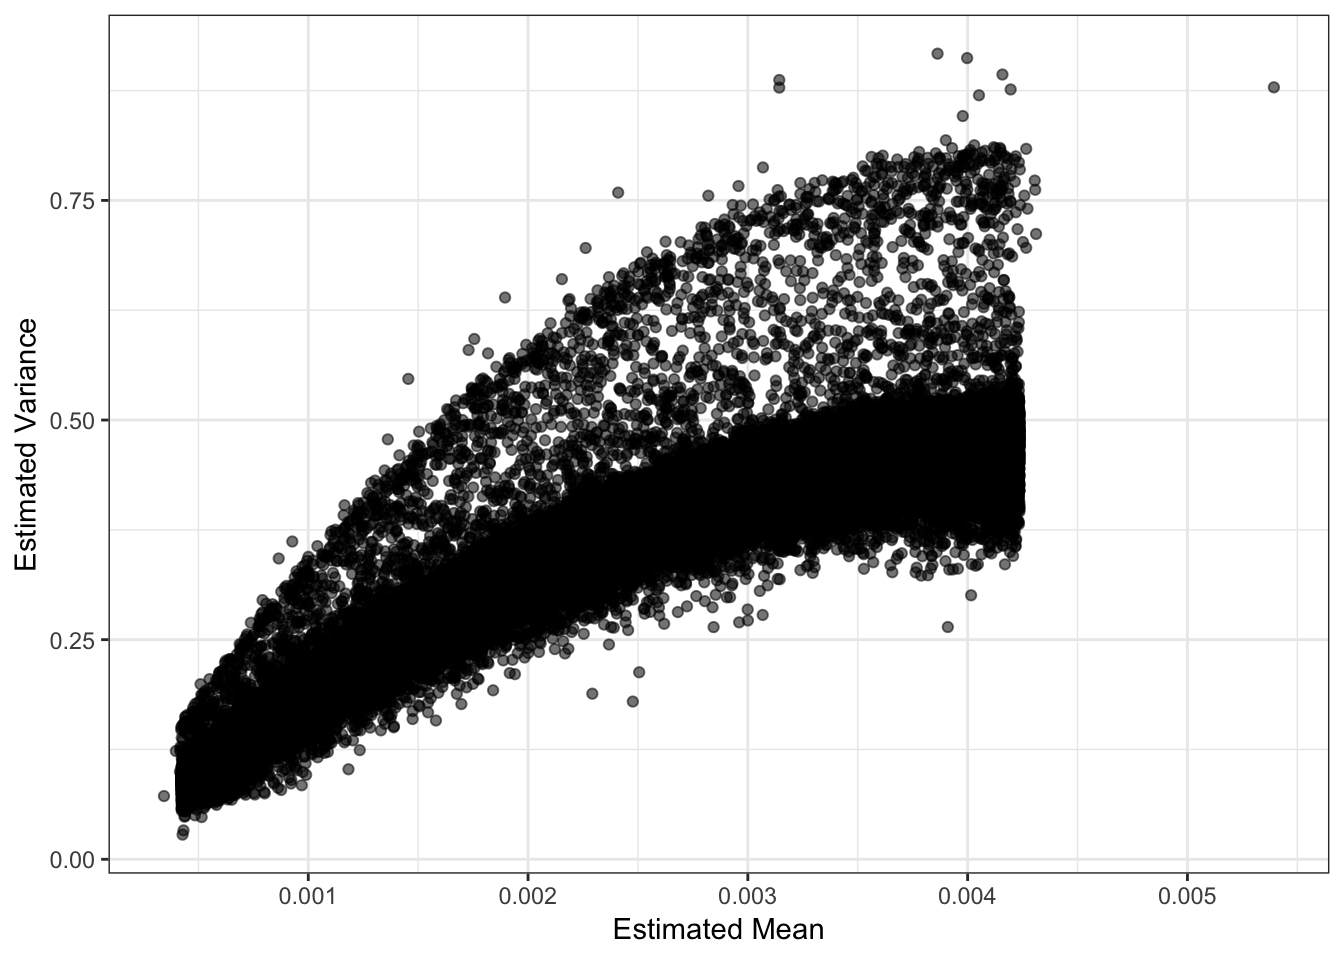
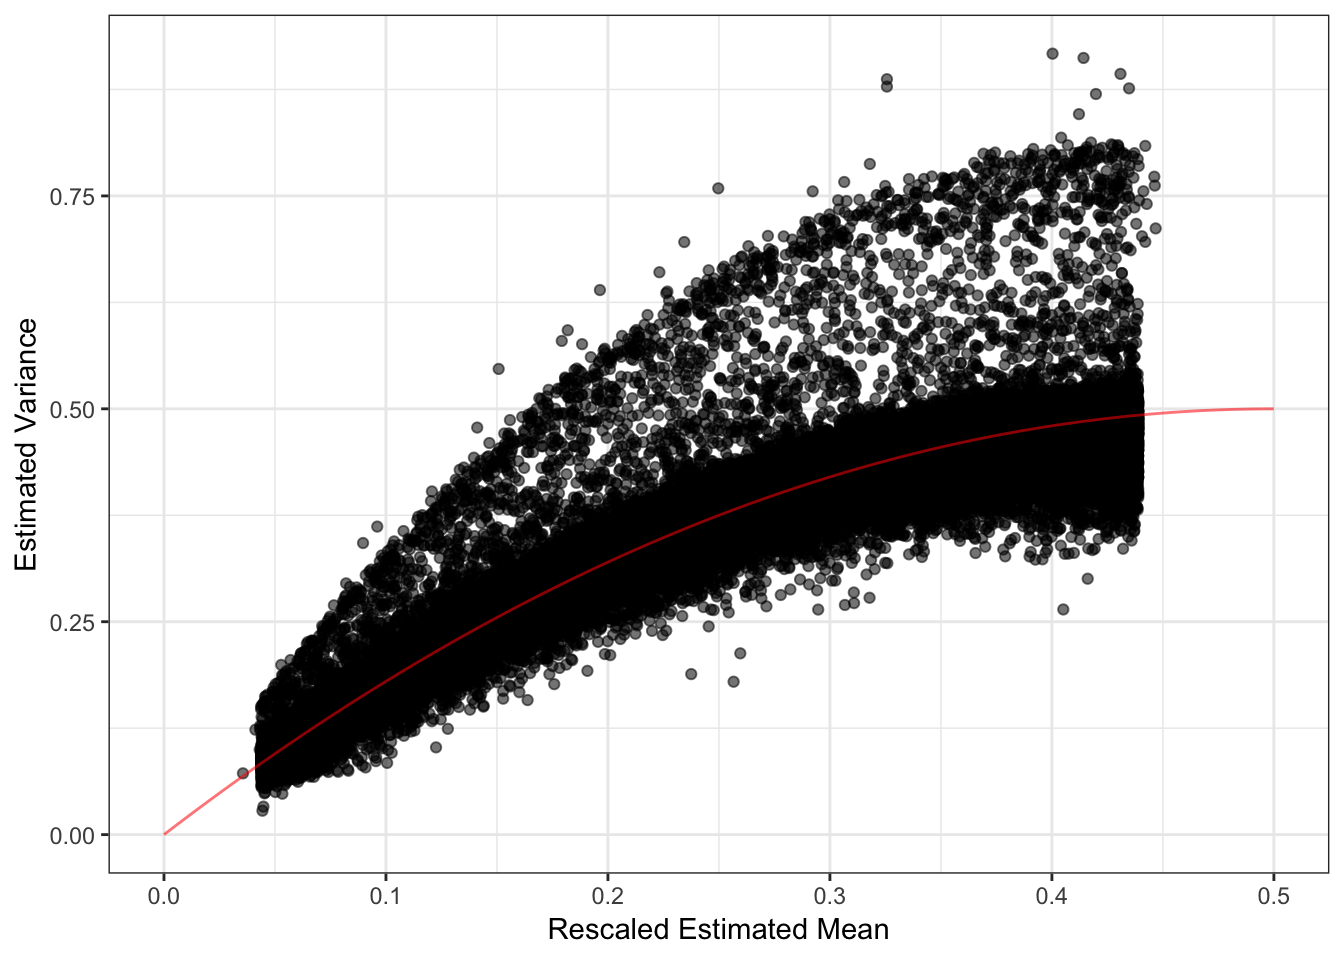
expanded upon mean variance

diff --git a/docs/hoa_global.html b/docs/hoa_global.html
@@ -465,7 +465,7 @@ div.section {
 </li>
 <li>
 <details>
-<p><summary> <strong style="color:blue;">✔</strong> <strong>Repository version:</strong> <a href="https://github.com/jhmarcus/drift-workflow/tree/2d28bb945ece17c4043981e2caae3de7114b3c3f" target="_blank">2d28bb9</a> </summary></p>
+<p><summary> <strong style="color:blue;">✔</strong> <strong>Repository version:</strong> <a href="https://github.com/jhmarcus/drift-workflow/tree/7644d40f17cc1940328c2c6ba40ff0b1817e667a" target="_blank">7644d40</a> </summary></p>
 Great! You are using Git for version control. Tracking code development and connecting the code version to the results is critical for reproducibility. The version displayed above was the version of the Git repository at the time these results were generated. <br><br> Note that you need to be careful to ensure that all relevant files for the analysis have been committed to Git prior to generating the results (you can use <code>wflow_publish</code> or <code>wflow_git_commit</code>). workflowr only checks the R Markdown file, but you know if there are other scripts or data files that it depends on. Below is the status of the Git repository when the results were generated:
 <pre><code>
 Ignored files:
@@ -480,10 +480,6 @@ Ignored files:
 
 Unstaged changes:
     Modified:   analysis/hoa_global.Rmd
-    Modified:   analysis/hoa_weurasia.Rmd
-    Modified:   analysis/index.Rmd
-    Modified:   analysis/ooa.Rmd
-    Modified:   code/viz.R
 
 </code></pre>
 Note that any generated files, e.g. HTML, png, CSS, etc., are not included in this status report because it is ok for generated content to have uncommitted changes.
@@ -514,6 +510,40 @@ Message
 </tr>
 </thead>
 <tbody>
+<tr>
+<td style="text-align:left;">
+Rmd
+</td>
+<td style="text-align:left;">
+<a href="https://github.com/jhmarcus/drift-workflow/blob/38b57c54997e44c495298de7423104f1749299a1/analysis/hoa_global.Rmd" target="_blank">38b57c5</a>
+</td>
+<td style="text-align:left;">
+jhmarcus
+</td>
+<td style="text-align:left;">
+2019-02-24
+</td>
+<td style="text-align:left;">
+simplified greedy flash global analysis
+</td>
+</tr>
+<tr>
+<td style="text-align:left;">
+html
+</td>
+<td style="text-align:left;">
+<a href="https://cdn.rawgit.com/jhmarcus/drift-workflow/38b57c54997e44c495298de7423104f1749299a1/docs/hoa_global.html" target="_blank">38b57c5</a>
+</td>
+<td style="text-align:left;">
+jhmarcus
+</td>
+<td style="text-align:left;">
+2019-02-24
+</td>
+<td style="text-align:left;">
+simplified greedy flash global analysis
+</td>
+</tr>
 <tr>
 <td style="text-align:left;">
 Rmd
@@ -738,6 +768,17 @@ Date
 <tbody>
 <tr>
 <td style="text-align:left;">
+<a href="https://github.com/jhmarcus/drift-workflow/blob/38b57c54997e44c495298de7423104f1749299a1/docs/figure/hoa_global.Rmd/flash-greedy-ld-viz-factors-1.png" target="_blank">38b57c5</a>
+</td>
+<td style="text-align:left;">
+jhmarcus
+</td>
+<td style="text-align:left;">
+2019-02-24
+</td>
+</tr>
+<tr>
+<td style="text-align:left;">
 <a href="https://github.com/jhmarcus/drift-workflow/blob/f5ef1af4d17d9469ed52811c88166186d0c3c993/docs/figure/hoa_global.Rmd/flash-greedy-ld-viz-factors-1.png" target="_blank">f5ef1af</a>
 </td>
 <td style="text-align:left;">
@@ -753,6 +794,37 @@ jhmarcus
 <p>We can see the later factors tend to get sparser but they still seem to contribute! Here is a plot of the “proportion of variance explained” of each factor:</p>
 <pre class="r"><code>qplot(2:K, flash_fit$pve[2:K]) + ylab(&quot;Proportion of Varaince Explained&quot;) + xlab(&quot;K&quot;) + theme_bw()</code></pre>
 <p><img src="figure/hoa_global.Rmd/flash-greedy-ld-viz-pve-1.png" width="672" style="display: block; margin: auto;" /></p>
+<details>
+<summary><em>Expand here to see past versions of flash-greedy-ld-viz-pve-1.png:</em></summary>
+<table style = "border-collapse:separate; border-spacing:5px;">
+<thead>
+<tr>
+<th style="text-align:left;">
+Version
+</th>
+<th style="text-align:left;">
+Author
+</th>
+<th style="text-align:left;">
+Date
+</th>
+</tr>
+</thead>
+<tbody>
+<tr>
+<td style="text-align:left;">
+<a href="https://github.com/jhmarcus/drift-workflow/blob/38b57c54997e44c495298de7423104f1749299a1/docs/figure/hoa_global.Rmd/flash-greedy-ld-viz-pve-1.png" target="_blank">38b57c5</a>
+</td>
+<td style="text-align:left;">
+jhmarcus
+</td>
+<td style="text-align:left;">
+2019-02-24
+</td>
+</tr>
+</tbody>
+</table>
+</details>
 <pre class="r"><code>print(flash_fit$pve)</code></pre>
 <pre><code> [1] 0.4750002010 0.0221931227 0.0180913971 0.0103143286 0.0025255466
  [6] 0.0015774930 0.0045260494 0.0014121917 0.0012173854 0.0007676335
@@ -762,17 +834,113 @@ jhmarcus
 <p>It looks like the PVE drops off at around 11 or so? I setup the <code>flashier</code> run so it estimates a SNP specific precision term. Here is a histogram of fitted variances:</p>
 <pre class="r"><code>qplot(1/flash_fit$fit$est.tau) + xlab(&quot;Estimated Variance&quot;) + ylab(&quot;Count&quot;) + theme_bw()</code></pre>
 <p><img src="figure/hoa_global.Rmd/flash-greedy-ld-viz-var-1.png" width="672" style="display: block; margin: auto;" /></p>
+<details>
+<summary><em>Expand here to see past versions of flash-greedy-ld-viz-var-1.png:</em></summary>
+<table style = "border-collapse:separate; border-spacing:5px;">
+<thead>
+<tr>
+<th style="text-align:left;">
+Version
+</th>
+<th style="text-align:left;">
+Author
+</th>
+<th style="text-align:left;">
+Date
+</th>
+</tr>
+</thead>
+<tbody>
+<tr>
+<td style="text-align:left;">
+<a href="https://github.com/jhmarcus/drift-workflow/blob/38b57c54997e44c495298de7423104f1749299a1/docs/figure/hoa_global.Rmd/flash-greedy-ld-viz-var-1.png" target="_blank">38b57c5</a>
+</td>
+<td style="text-align:left;">
+jhmarcus
+</td>
+<td style="text-align:left;">
+2019-02-24
+</td>
+</tr>
+</tbody>
+</table>
+</details>
 <p>Lets now look the the fitted means:</p>
 <pre class="r"><code>qplot(delta_df$`1`) + xlab(&quot;Estimated Mean&quot;) + ylab(&quot;Count&quot;) + theme_bw()</code></pre>
 <p><img src="figure/hoa_global.Rmd/flash-greedy-ld-viz-mean-1.png" width="672" style="display: block; margin: auto;" /></p>
-<p>The mean seems a bit smaller than I would have expected? These plots looks about reasonable as each of the SNP variances should roughly be interpreted as average heterozygosity <span class="math inline">\(\approx 2p(1-p)\)</span>? The mean term should roughly be interpreted as the mean allele frequency at the SNP and thus we should see a quadratic relationship with the estimated variance:</p>
-<pre class="r"><code>p_mv = qplot(delta_df$`1`, 1/flash_fit$fit$est.tau, alpha=.3) + 
-       xlab(&quot;Estimated Mean&quot;) + ylab(&quot;Estimated Variance&quot;) + 
+<details>
+<summary><em>Expand here to see past versions of flash-greedy-ld-viz-mean-1.png:</em></summary>
+<table style = "border-collapse:separate; border-spacing:5px;">
+<thead>
+<tr>
+<th style="text-align:left;">
+Version
+</th>
+<th style="text-align:left;">
+Author
+</th>
+<th style="text-align:left;">
+Date
+</th>
+</tr>
+</thead>
+<tbody>
+<tr>
+<td style="text-align:left;">
+<a href="https://github.com/jhmarcus/drift-workflow/blob/38b57c54997e44c495298de7423104f1749299a1/docs/figure/hoa_global.Rmd/flash-greedy-ld-viz-mean-1.png" target="_blank">38b57c5</a>
+</td>
+<td style="text-align:left;">
+jhmarcus
+</td>
+<td style="text-align:left;">
+2019-02-24
+</td>
+</tr>
+</tbody>
+</table>
+</details>
+<p>The mean seems smaller than I would have expected but thats probably because its normalized to have unit norm?! These plots looks about reasonable as each of the SNP variances should roughly be interpreted as average heterozygosity <span class="math inline">\(\approx 2p(1-p)\)</span>? The mean term should roughly be interpreted as the mean minor allele frequency at the SNP and thus we should see a quadratic relationship with the estimated variance:</p>
+<pre class="r"><code>d1 = flash_fit$loadings$scale.constant[1]
+p_mv = qplot(sqrt(d1) * delta_df$`1`, 1/flash_fit$fit$est.tau, alpha=.3) + 
+       xlab(&quot;Rescaled Estimated Mean&quot;) + ylab(&quot;Estimated Variance&quot;) + 
        scale_alpha(guide = &quot;none&quot;) + 
+       stat_function(fun = function(x){return(2*x*(1-x))}, color=&quot;red&quot;) + 
+       xlim(0, .5) + 
        theme_bw()
 p_mv</code></pre>
 <p><img src="figure/hoa_global.Rmd/flash-greedy-ld-viz-mv-1.png" width="672" style="display: block; margin: auto;" /></p>
-<p>Lets now take a look at the loadings. First we setup a data.frame that we can work with:</p>
+<details>
+<summary><em>Expand here to see past versions of flash-greedy-ld-viz-mv-1.png:</em></summary>
+<table style = "border-collapse:separate; border-spacing:5px;">
+<thead>
+<tr>
+<th style="text-align:left;">
+Version
+</th>
+<th style="text-align:left;">
+Author
+</th>
+<th style="text-align:left;">
+Date
+</th>
+</tr>
+</thead>
+<tbody>
+<tr>
+<td style="text-align:left;">
+<a href="https://github.com/jhmarcus/drift-workflow/blob/38b57c54997e44c495298de7423104f1749299a1/docs/figure/hoa_global.Rmd/flash-greedy-ld-viz-mv-1.png" target="_blank">38b57c5</a>
+</td>
+<td style="text-align:left;">
+jhmarcus
+</td>
+<td style="text-align:left;">
+2019-02-24
+</td>
+</tr>
+</tbody>
+</table>
+</details>
+<p>I need to better understand the <code>flashier</code> output but it seems that when I scale the estimated mean by the square root of the output scale constant and plot this rescaled mean against the estimated variance, most of the SNPs have a mean-variance relationship expected under a simple Binomial model for the genotypes i.e. <span class="math inline">\(y_{ij} \sim Binomial(2, p_{ij})\)</span>. Though, there are indeed many SNPs that have a a much larger variance than expected under this simple “Hardy-Weinberg” model. I wonder if there is anything “special” going on with those SNPs (this is something to follow up on). Lets now take a look at the loadings. First we setup a data.frame that we can work with:</p>
 <pre class="r"><code># read the meta data
 meta_df = read.table(&quot;../data/meta/HumanOriginsPublic2068_maf_geno_ldprune.meta&quot;, sep=&quot; &quot;, header=T)
 
@@ -879,6 +1047,37 @@ p = cowplot::plot_grid(p_africa, p_west_eurasia, p_central_asia_siberia, p_ameri
                        nrow = 7, align = &quot;v&quot;) 
 p</code></pre>
 <p><img src="figure/hoa_global.Rmd/flash-greedy-ld-viz-loadings-2-11-1.png" width="816" style="display: block; margin: auto;" /></p>
+<details>
+<summary><em>Expand here to see past versions of flash-greedy-ld-viz-loadings-2-11-1.png:</em></summary>
+<table style = "border-collapse:separate; border-spacing:5px;">
+<thead>
+<tr>
+<th style="text-align:left;">
+Version
+</th>
+<th style="text-align:left;">
+Author
+</th>
+<th style="text-align:left;">
+Date
+</th>
+</tr>
+</thead>
+<tbody>
+<tr>
+<td style="text-align:left;">
+<a href="https://github.com/jhmarcus/drift-workflow/blob/38b57c54997e44c495298de7423104f1749299a1/docs/figure/hoa_global.Rmd/flash-greedy-ld-viz-loadings-2-11-1.png" target="_blank">38b57c5</a>
+</td>
+<td style="text-align:left;">
+jhmarcus
+</td>
+<td style="text-align:left;">
+2019-02-24
+</td>
+</tr>
+</tbody>
+</table>
+</details>
 <p>Lets now visualize loadings 12 to 21 (be careful: there is no connection to the colors in the last plot):</p>
 <pre class="r"><code># gather the data.frame for plotting
 l_gath_df = l_df %&gt;% 
@@ -933,6 +1132,37 @@ p = cowplot::plot_grid(p_africa, p_west_eurasia, p_central_asia_siberia, p_ameri
                        nrow = 7, align = &quot;v&quot;) 
 p</code></pre>
 <p><img src="figure/hoa_global.Rmd/flash-greedy-ld-viz-loadings-12-21-1.png" width="816" style="display: block; margin: auto;" /></p>
+<details>
+<summary><em>Expand here to see past versions of flash-greedy-ld-viz-loadings-12-21-1.png:</em></summary>
+<table style = "border-collapse:separate; border-spacing:5px;">
+<thead>
+<tr>
+<th style="text-align:left;">
+Version
+</th>
+<th style="text-align:left;">
+Author
+</th>
+<th style="text-align:left;">
+Date
+</th>
+</tr>
+</thead>
+<tbody>
+<tr>
+<td style="text-align:left;">
+<a href="https://github.com/jhmarcus/drift-workflow/blob/38b57c54997e44c495298de7423104f1749299a1/docs/figure/hoa_global.Rmd/flash-greedy-ld-viz-loadings-12-21-1.png" target="_blank">38b57c5</a>
+</td>
+<td style="text-align:left;">
+jhmarcus
+</td>
+<td style="text-align:left;">
+2019-02-24
+</td>
+</tr>
+</tbody>
+</table>
+</details>
 <p>Its kinda interesting to see that some populations have zero loading on later factors. This would be difficult to visualize see if using a single plot for all the factors.</p>
 </div>
 <div id="admixture" class="section level3">
@@ -1002,7 +1232,38 @@ p = cowplot::plot_grid(p_africa, p_west_eurasia, p_central_asia_siberia, p_ameri
                        nrow = 7, align = &quot;v&quot;) 
 p</code></pre>
 <p><img src="figure/hoa_global.Rmd/admixtrue-ld-viz-loadings-9-1.png" width="816" style="display: block; margin: auto;" /></p>
-<p>There is a lot that one can compare between the ADMIXTURE and FLASH results. A high level observation seems that the ADMIXTURE results look a bit more clustered i.e. the Americas and East Asia look like they are explained mostly by 1 or 2 factors whereas FLASH uses 3-4. Its hard to tell be it seems that this is true in many of the super regions … ADMIXTURE tends use fewer factors to explain population structure in each region, leaing to a more clustered result?</p>
+<details>
+<summary><em>Expand here to see past versions of admixtrue-ld-viz-loadings-9-1.png:</em></summary>
+<table style = "border-collapse:separate; border-spacing:5px;">
+<thead>
+<tr>
+<th style="text-align:left;">
+Version
+</th>
+<th style="text-align:left;">
+Author
+</th>
+<th style="text-align:left;">
+Date
+</th>
+</tr>
+</thead>
+<tbody>
+<tr>
+<td style="text-align:left;">
+<a href="https://github.com/jhmarcus/drift-workflow/blob/38b57c54997e44c495298de7423104f1749299a1/docs/figure/hoa_global.Rmd/admixtrue-ld-viz-loadings-9-1.png" target="_blank">38b57c5</a>
+</td>
+<td style="text-align:left;">
+jhmarcus
+</td>
+<td style="text-align:left;">
+2019-02-24
+</td>
+</tr>
+</tbody>
+</table>
+</details>
+<p>There is a lot that one can compare between the ADMIXTURE and FLASH results. A high level observation seems that the ADMIXTURE results look a bit more clustered i.e. the Americas and East Asia look like they are explained mostly by 1 or 2 factors whereas FLASH uses 3-4. Its hard to tell be it seems that this is true in many of the super regions … ADMIXTURE tends use fewer factors to explain population structure in each region, leading to a more clustered result?</p>
 </div>
 </div>
 <div id="session-information" class="section level2">
